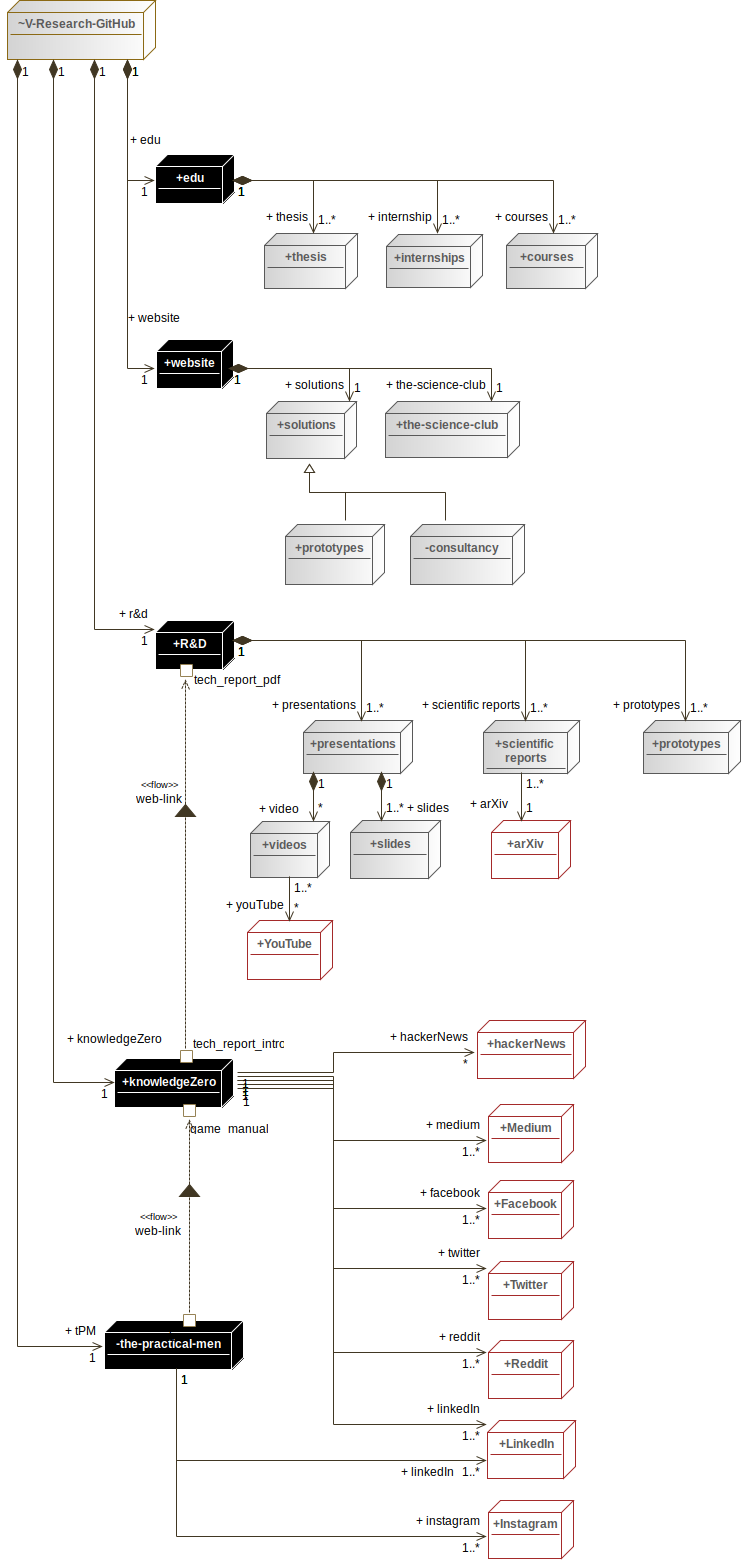
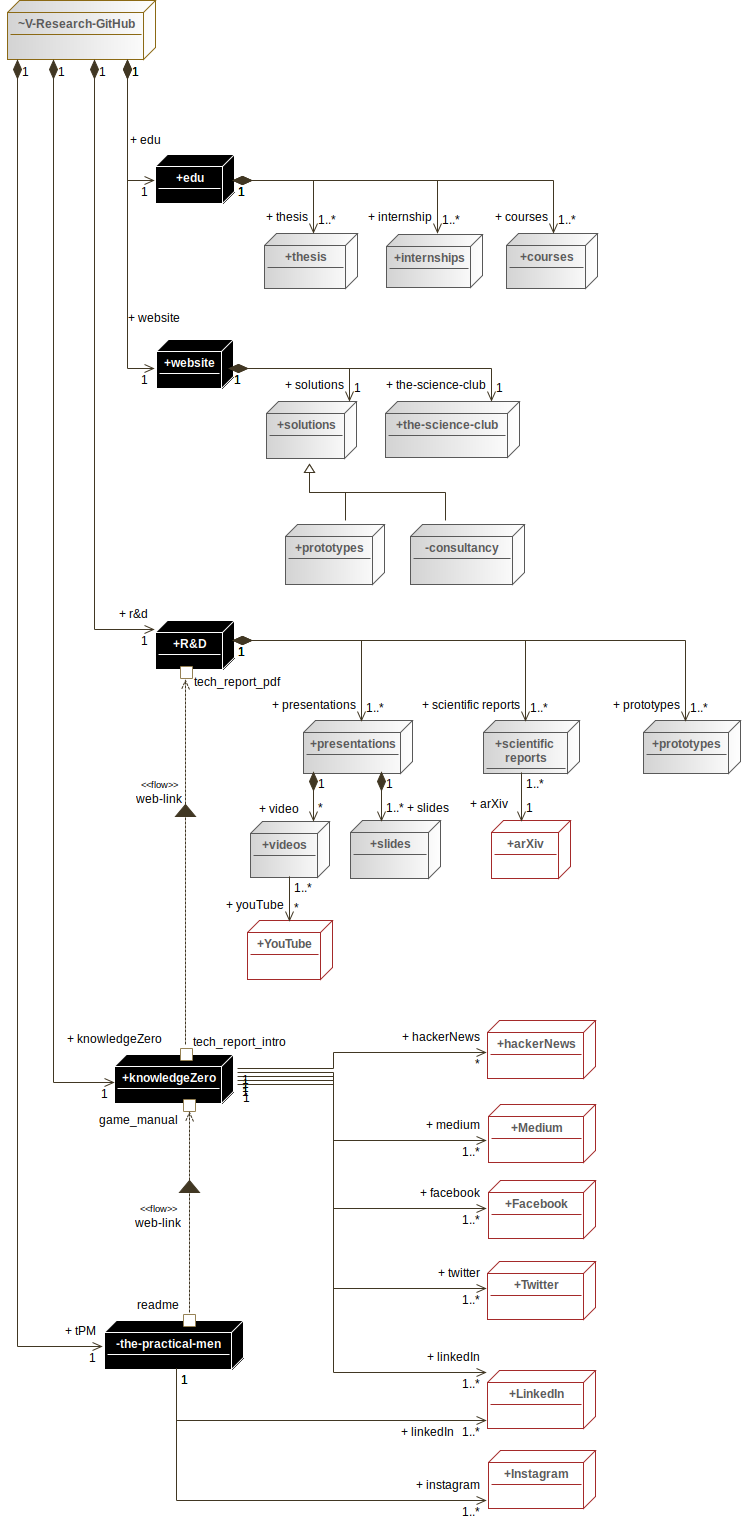
add links to engineering image (and update img)

diff --git a/engineer.md b/engineer.md
@@ -12,6 +12,40 @@ We believe that natural language isn't for engineers, uml or similar languages a
 </div>
 
 <img alt="A deployment diagram of the infrastructure of V-Research" src="images/infrastructure_deploymentDiagram.png" usemap="#dcb809e7-bbd3-4dd1-b082-8afaec084fd1" width="600.0" height="1265.4986522911051">
-<map name="dcb809e7-bbd3-4dd1-b082-8afaec084fd1"><area alt="V-Research-GitHub" coords="5,0,126,49" href="1.html#_979bb0a3-2608-450f-88fd-fff4d642b1d3" name="dcb809e7-bbd3-4dd1-b082-8afaec084fd1" shape="rect"><area alt="Medium" coords="394,892,464,941" href="2.html#_a5724fee-9b1e-4d4a-9930-2be8ccf1c351" name="dcb809e7-bbd3-4dd1-b082-8afaec084fd1" shape="rect"><area alt="Facebook" coords="394,954,464,1002" href="3.html#_236902e4-6ced-40e0-9a49-40565bebf389" name="dcb809e7-bbd3-4dd1-b082-8afaec084fd1" shape="rect"><area alt="Twitter" coords="394,1019,464,1068" href="4.html#_1f0b36a1-e4b3-4137-bc0a-309726787a9b" name="dcb809e7-bbd3-4dd1-b082-8afaec084fd1" shape="rect"><area alt="Instagram" coords="394,1212,464,1261" href="5.html#_eb9672e7-96dd-47df-bb6f-d9b340d38ae0" name="dcb809e7-bbd3-4dd1-b082-8afaec084fd1" shape="rect"><area alt="Reddit" coords="394,1083,464,1132" href="6.html#_95a53895-a17f-4644-976e-2175bb7d85a6" name="dcb809e7-bbd3-4dd1-b082-8afaec084fd1" shape="rect"><area alt="tech_report_pdf " coords="156,542,228,557" name="dcb809e7-bbd3-4dd1-b082-8afaec084fd1" shape="rect"><area alt="tech_report_pdf " coords="145,536,156,547" name="dcb809e7-bbd3-4dd1-b082-8afaec084fd1" shape="rect"><area alt="R&amp;D" coords="125,501,190,542" href="7.html#_e86efc04-631a-49cd-ab5d-c82a2a8115fe" name="dcb809e7-bbd3-4dd1-b082-8afaec084fd1" shape="rect"><area alt="tech_report_intro" coords="156,836,231,852" name="dcb809e7-bbd3-4dd1-b082-8afaec084fd1" shape="rect"><area alt="tech_report_intro" coords="145,849,156,859" name="dcb809e7-bbd3-4dd1-b082-8afaec084fd1" shape="rect"><area alt="game_manual" coords="153,905,217,921" name="dcb809e7-bbd3-4dd1-b082-8afaec084fd1" shape="rect"><area alt="game_manual" coords="147,892,158,903" name="dcb809e7-bbd3-4dd1-b082-8afaec084fd1" shape="rect"><area alt="knowledgeZero" coords="92,855,190,896" href="8.html#_ede951a8-9158-4aea-8813-8894034cba6f" name="dcb809e7-bbd3-4dd1-b082-8afaec084fd1" shape="rect"><area alt="readme" coords="118,1073,152,1089" name="dcb809e7-bbd3-4dd1-b082-8afaec084fd1" shape="rect"><area alt="readme" coords="147,1062,158,1073" name="dcb809e7-bbd3-4dd1-b082-8afaec084fd1" shape="rect"><area alt="the-practical-men" coords="84,1067,198,1108" href="9.html#_a34dcc96-8057-49bc-8cd5-96b00ae5a9e1" name="dcb809e7-bbd3-4dd1-b082-8afaec084fd1" shape="rect"><area alt="website" coords="126,274,190,315" href="10.html#_8f5c4faf-e766-4c7e-b56a-f1488721dce0" name="dcb809e7-bbd3-4dd1-b082-8afaec084fd1" shape="rect"><area alt="LinkedIn" coords="393,1148,466,1196" href="11.html#_a854b81a-445a-4918-9fe9-0428dab1c0ea" name="dcb809e7-bbd3-4dd1-b082-8afaec084fd1" shape="rect"><area alt="hackerNews" coords="385,824,474,873" href="12.html#_e7b4a555-d243-49f4-b841-aa1d6232f5ff" name="dcb809e7-bbd3-4dd1-b082-8afaec084fd1" shape="rect"><area alt="arXiv" coords="397,663,462,711" href="13.html#_87efb7f2-bfeb-4eb5-a9fe-74691bdf188a" name="dcb809e7-bbd3-4dd1-b082-8afaec084fd1" shape="rect"><area alt="edu" coords="125,124,190,165" href="14.html#_aa4e195e-5771-48ca-a660-b6320e525a3f" name="dcb809e7-bbd3-4dd1-b082-8afaec084fd1" shape="rect"><area alt="prototypes" coords="519,582,600,626" href="15.html#_eebca1b1-8456-4723-9ae6-d92eb3bb9a02" name="dcb809e7-bbd3-4dd1-b082-8afaec084fd1" shape="rect"><area alt="scientific reports" coords="390,582,469,626" href="16.html#_3897c3f4-9635-4178-a86e-8fadb95196a6" name="dcb809e7-bbd3-4dd1-b082-8afaec084fd1" shape="rect"><area alt="presentations" coords="245,582,334,626" href="17.html#_497963ab-77b4-4b26-93a1-5ceedab9b2e2" name="dcb809e7-bbd3-4dd1-b082-8afaec084fd1" shape="rect"><area alt="slides" coords="283,663,357,711" href="18.html#_e46b17c3-3802-4ce1-827d-a3ec42d21767" name="dcb809e7-bbd3-4dd1-b082-8afaec084fd1" shape="rect"><area alt="videos" coords="202,663,267,710" href="19.html#_a693a74c-924a-462c-b842-4181d8062295" name="dcb809e7-bbd3-4dd1-b082-8afaec084fd1" shape="rect"><area alt="YouTube" coords="199,743,270,793" href="20.html#_6b5ce5fe-bde5-4cf6-adc4-15b21ebae767" name="dcb809e7-bbd3-4dd1-b082-8afaec084fd1" shape="rect"><area alt="solutions" coords="215,324,289,371" href="21.html#_11197af0-8dcd-40fe-8204-ab030ab6dffa" name="dcb809e7-bbd3-4dd1-b082-8afaec084fd1" shape="rect"><area alt="consultancy" coords="331,423,425,473" href="22.html#_dbebc090-ce95-4353-b2aa-c961e0344567" name="dcb809e7-bbd3-4dd1-b082-8afaec084fd1" shape="rect"><area alt="prototypes" coords="230,423,312,473" href="23.html#_4e1a99a8-bf81-4451-b607-499da2bc2d6d" name="dcb809e7-bbd3-4dd1-b082-8afaec084fd1" shape="rect"><area alt="the-science-club" coords="311,324,421,371" href="24.html#_19e7f11a-2437-4fb5-9811-1efd4cb90d80" name="dcb809e7-bbd3-4dd1-b082-8afaec084fd1" shape="rect"><area alt="courses" coords="409,188,484,234" href="25.html#_460e34c8-489f-4fde-bd24-e202d1e5ccc3" name="dcb809e7-bbd3-4dd1-b082-8afaec084fd1" shape="rect"><area alt="thesis" coords="213,188,290,234" href="26.html#_508b99b5-91ee-4af1-b501-e8b27f657a0b" name="dcb809e7-bbd3-4dd1-b082-8afaec084fd1" shape="rect"><area alt="internships" coords="312,189,391,233" href="27.html#_eb55274a-86f7-482a-baf5-2488cdf369a2" name="dcb809e7-bbd3-4dd1-b082-8afaec084fd1" shape="rect"></map>
-
+<map name="dcb809e7-bbd3-4dd1-b082-8afaec084fd1">
+<area alt="V-Research-GitHub" coords="5,0,126,49" href="https://github.com/v-research" name="dcb809e7-bbd3-4dd1-b082-8afaec084fd1" shape="rect">
+<area alt="Medium" coords="394,892,482,941" href="https://knowledgezero.medium.com/" name="dcb809e7-bbd3-4dd1-b082-8afaec084fd1" shape="rect">
+<area alt="Facebook" coords="394,954,482,1002" href="https://www.facebook.com/vresearch.it" name="dcb809e7-bbd3-4dd1-b082-8afaec084fd1" shape="rect">
+<area alt="Twitter" coords="393,1019,482,1068" href="https://twitter.com/marcorocchetto" name="dcb809e7-bbd3-4dd1-b082-8afaec084fd1" shape="rect">
+<area alt="Instagram" coords="394,1172,482,1221" href="https://www.instagram.com/vresearch_it/" name="dcb809e7-bbd3-4dd1-b082-8afaec084fd1" shape="rect">
+<area alt="tech_report_pdf " coords="156,544,228,559" name="dcb809e7-bbd3-4dd1-b082-8afaec084fd1" shape="rect">
+<area alt="tech_report_pdf " coords="145,538,156,549" name="dcb809e7-bbd3-4dd1-b082-8afaec084fd1" shape="rect">
+<area alt="R&amp;D" coords="125,501,190,542" href="https://github.com/v-research/cybersecurity" name="dcb809e7-bbd3-4dd1-b082-8afaec084fd1" shape="rect">
+<area alt="tech_report_intro" coords="156,835,231,850" name="dcb809e7-bbd3-4dd1-b082-8afaec084fd1" shape="rect">
+<area alt="tech_report_intro" coords="145,847,156,857" name="dcb809e7-bbd3-4dd1-b082-8afaec084fd1" shape="rect">
+<area alt="game_manual" coords="80,898,143,913" name="dcb809e7-bbd3-4dd1-b082-8afaec084fd1" shape="rect">
+<area alt="game_manual" coords="147,888,158,899" name="dcb809e7-bbd3-4dd1-b082-8afaec084fd1" shape="rect">
+<area alt="knowledgeZero" coords="92,852,190,893" href="https://www.knowledgezero.com/" name="dcb809e7-bbd3-4dd1-b082-8afaec084fd1" shape="rect">
+<area alt="readme" coords="110,1047,144,1063" name="dcb809e7-bbd3-4dd1-b082-8afaec084fd1" shape="rect">
+<area alt="readme" coords="147,1062,158,1073" name="dcb809e7-bbd3-4dd1-b082-8afaec084fd1" shape="rect">
+<area alt="the-practical-men" coords="84,1067,198,1108" name="dcb809e7-bbd3-4dd1-b082-8afaec084fd1" shape="rect">
+<area alt="website" coords="126,274,190,315" name="dcb809e7-bbd3-4dd1-b082-8afaec084fd1" shape="rect">
+<area alt="LinkedIn" coords="393,1107,482,1156" href="https://www.linkedin.com/company/v-researchit/" name="dcb809e7-bbd3-4dd1-b082-8afaec084fd1" shape="rect">
+<area alt="hackerNews" coords="393,824,482,873" href="https://news.ycombinator.com/" name="dcb809e7-bbd3-4dd1-b082-8afaec084fd1" shape="rect">
+<area alt="arXiv" coords="397,663,462,711" href="https://arxiv.org/" name="dcb809e7-bbd3-4dd1-b082-8afaec084fd1" shape="rect">
+<area alt="edu" coords="125,124,190,165" href="https://edu.v-research.it" name="dcb809e7-bbd3-4dd1-b082-8afaec084fd1" shape="rect">
+<area alt="prototypes" coords="519,582,600,626" name="dcb809e7-bbd3-4dd1-b082-8afaec084fd1" shape="rect">
+<area alt="scientific reports" coords="390,582,469,626" name="dcb809e7-bbd3-4dd1-b082-8afaec084fd1" shape="rect">
+<area alt="presentations" coords="245,582,334,626" href="https://github.com/v-research/cybersecurity/tree/master/presentations" name="dcb809e7-bbd3-4dd1-b082-8afaec084fd1" shape="rect">
+<area alt="slides" coords="283,663,357,711" name="dcb809e7-bbd3-4dd1-b082-8afaec084fd1" shape="rect">
+<area alt="videos" coords="202,663,267,710" name="dcb809e7-bbd3-4dd1-b082-8afaec084fd1" shape="rect">
+<area alt="YouTube" coords="199,743,270,793" name="dcb809e7-bbd3-4dd1-b082-8afaec084fd1" shape="rect">
+<area alt="solutions" coords="215,324,289,371" href="https://v-research.it/solutions.html" name="dcb809e7-bbd3-4dd1-b082-8afaec084fd1" shape="rect">
+<area alt="consultancy" coords="331,423,425,473" name="dcb809e7-bbd3-4dd1-b082-8afaec084fd1" shape="rect">
+<area alt="prototypes" coords="230,423,312,473" href="https://github.com/v-research/cybersecurity/tree/master/prototypes" name="dcb809e7-bbd3-4dd1-b082-8afaec084fd1" shape="rect">
+<area alt="the-science-club" coords="311,324,421,371" href="https://v-research.it/team.html" name="dcb809e7-bbd3-4dd1-b082-8afaec084fd1" shape="rect">
+<area alt="courses" coords="409,188,484,234" name="dcb809e7-bbd3-4dd1-b082-8afaec084fd1" shape="rect">
+<area alt="thesis" coords="213,188,290,234" name="dcb809e7-bbd3-4dd1-b082-8afaec084fd1" shape="rect">
+<area alt="internships" coords="312,189,391,233" name="dcb809e7-bbd3-4dd1-b082-8afaec084fd1" shape="rect">
+</map>
 </div>
